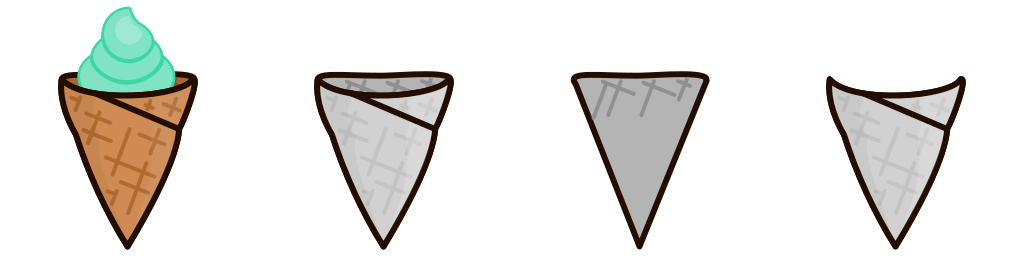
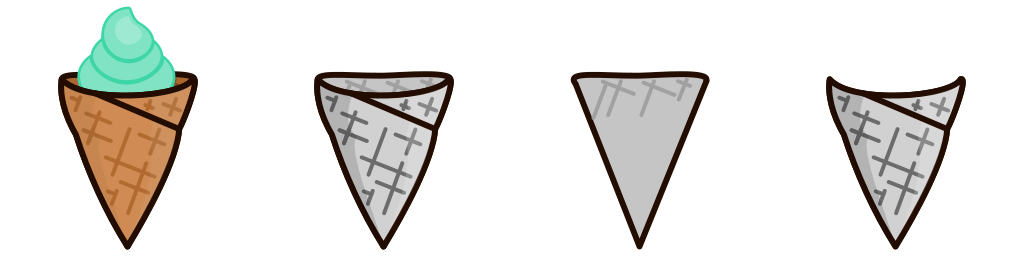
cone color manipulation

diff --git a/dev_tools/cone_recolor_debug.html b/dev_tools/cone_recolor_debug.html
@@ -1,0 +1,267 @@
+<!DOCTYPE html>
+<html lang="en">
+<head>
+<meta charset="UTF-8" />
+<meta name="viewport" content="width=device-width, initial-scale=1" />
+<title>Cone recolor debug</title>
+<style>
+  :root { --gap: 16px; }
+  * { box-sizing: border-box; }
+  body {
+    margin: 0;
+    font-family: system-ui, -apple-system, "Segoe UI", sans-serif;
+    color: #20303a;
+    /* A midday-ish sky so the cones are judged against the same backdrop as the game. */
+    background: linear-gradient(180deg, #8fd0f0 0%, #cdeaf6 60%, #f3e3b8 100%);
+    min-height: 100vh;
+  }
+  header {
+    position: sticky; top: 0; z-index: 5;
+    background: rgba(255,255,255,0.92);
+    border-bottom: 1px solid #b9cdd6;
+    padding: 12px 18px;
+    display: flex; flex-wrap: wrap; gap: 18px; align-items: center;
+    backdrop-filter: blur(4px);
+  }
+  header h1 { font-size: 16px; margin: 0 12px 0 0; }
+  .ctrl { display: flex; align-items: center; gap: 6px; font-size: 13px; }
+  .ctrl label { font-weight: 600; }
+  .ctrl input[type="color"] { width: 36px; height: 28px; padding: 0; border: 1px solid #888; border-radius: 4px; background: none; }
+  .ctrl code { background: #eef4f7; padding: 2px 6px; border-radius: 4px; }
+  select, input[type="range"] { font: inherit; }
+  main { padding: 18px; }
+  section { margin: 0 0 28px; }
+  section > h2 { font-size: 14px; letter-spacing: .03em; text-transform: uppercase; color: #3a5563; margin: 0 0 10px; }
+  .row { display: flex; flex-wrap: wrap; gap: var(--gap); align-items: flex-end; }
+  .card { text-align: center; }
+  .card .name { font-size: 12px; font-weight: 700; margin-top: 6px; }
+  .card .meta { font-size: 11px; color: #4a6675; }
+  .card .meta .sw { display: inline-block; width: 11px; height: 11px; border: 1px solid #555; border-radius: 2px; vertical-align: -1px; margin-right: 3px; }
+  /* Checkerboard so the cone's transparency reads. */
+  .tile {
+    background-image:
+      linear-gradient(45deg, #cdd6db 25%, transparent 25%),
+      linear-gradient(-45deg, #cdd6db 25%, transparent 25%),
+      linear-gradient(45deg, transparent 75%, #cdd6db 75%),
+      linear-gradient(-45deg, transparent 75%, #cdd6db 75%);
+    background-size: 16px 16px;
+    background-position: 0 0, 0 8px, 8px -8px, -8px 0;
+    background-color: #e7edf0;
+    border: 1px solid #aab8c0;
+    border-radius: 8px;
+    display: inline-block;
+    line-height: 0;
+  }
+  .tile.hero { box-shadow: 0 6px 18px rgba(0,0,0,.18); }
+  .hero-wrap { display: flex; gap: 28px; align-items: flex-end; flex-wrap: wrap; }
+  .hero-wrap .vs { align-self: center; font-size: 22px; font-weight: 700; color: #5a7686; }
+  .err { color: #b00020; font-weight: 600; }
+  .hint { font-size: 12px; color: #4a6675; margin: 4px 0 0; }
+</style>
+</head>
+<body>
+<header>
+  <h1>🍦 Cone recolor</h1>
+  <div class="ctrl">
+    <label for="base">Base</label>
+    <input type="color" id="base" value="#efa23e" />
+    <code id="baseHex">#efa23e</code>
+  </div>
+  <div class="ctrl">
+    <label for="blend">Blend</label>
+    <select id="blend">
+      <option value="multiply">multiply</option>
+      <option value="overlay">overlay</option>
+      <option value="soft-light">soft-light</option>
+      <option value="hard-light">hard-light</option>
+      <option value="screen">screen</option>
+      <option value="color">color</option>
+      <option value="hue">hue</option>
+      <option value="luminosity">luminosity</option>
+    </select>
+  </div>
+  <div class="ctrl">
+    <label for="minB">Min brightness</label>
+    <input type="range" id="minB" min="0.3" max="1" step="0.05" value="0.65" />
+    <code id="minBval">0.65</code>
+  </div>
+  <div class="ctrl">
+    <label for="steps">Tint steps</label>
+    <input type="range" id="steps" min="2" max="32" step="1" value="16" />
+    <code id="stepsval">16</code>
+  </div>
+  <div class="ctrl">
+    <label for="disp">Size</label>
+    <input type="range" id="disp" min="90" max="240" step="10" value="170" />
+  </div>
+</header>
+
+<main>
+  <p id="status" class="hint"></p>
+
+  <section>
+    <h2>Reference vs recolored (midday)</h2>
+    <div class="hero-wrap" id="hero"></div>
+    <p class="hint">Left = sprite 0, drawn straight from the sheet (your target). Right = sprite 1 recolored with the current settings at the midday floor. Match the right to the left.</p>
+  </section>
+
+  <section>
+    <h2>Grayscale source frames (untouched)</h2>
+    <div class="row" id="raw"></div>
+  </section>
+
+  <section>
+    <h2>Sprite 1 — recolored at each day-cycle floor</h2>
+    <div class="row" id="keyframes"></div>
+  </section>
+
+  <section>
+    <h2>Sprite 1 — brightness ramp (1.0 → min, the day-dim steps)</h2>
+    <div class="row" id="ramp"></div>
+  </section>
+
+  <section>
+    <h2>In-game layers @ midday (back behind scoops, front over them)</h2>
+    <div class="row" id="layers"></div>
+    <p class="hint">This is what actually renders: BACK (frame 2) + FRONT (frame 3) recolored. The right tile composites them.</p>
+  </section>
+</main>
+
+<script>
+  const SRC = '../assets/cone_sheet.png';
+  const F = 256;
+  const FRAME = { REFERENCE: 0, FULL: 1, BACK: 2, FRONT: 3 };
+  // Day-cycle floor colors (from js/game/dayCycle.js KEYFRAMES) that drive the tint.
+  const DAY = [
+    ['Dawn',      '#e8b97a'],
+    ['Morning',   '#f3d9a1'],
+    ['Midday',    '#f7e0a0'],
+    ['Afternoon', '#d99a5e'],
+    ['Sunset',    '#6f4d3a'],
+  ];
+  const DAWN_FLOOR = '#e8b97a';
+
+  const img = new Image();
+  const statusEl = document.getElementById('status');
+  img.onload = () => { statusEl.textContent = `Loaded ${SRC} (${img.width}×${img.height}).`; render(); };
+  img.onerror = () => { statusEl.innerHTML = `<span class="err">Could not load ${SRC}. Open this page from the scoop/ tree (or via the dev server) so the relative path resolves.</span>`; };
+  img.src = SRC;
+
+  // --- color helpers (mirror playerView.js) ---------------------------------
+  function lum(hex) {
+    const v = parseInt(hex.slice(1), 16);
+    return 0.299 * ((v >> 16) & 255) + 0.587 * ((v >> 8) & 255) + 0.114 * (v & 255);
+  }
+  function scaleHex(hex, f) {
+    const v = parseInt(hex.slice(1), 16);
+    const p = n => Math.round(Math.max(0, Math.min(255, n))).toString(16).padStart(2, '0');
+    return '#' + p(((v >> 16) & 255) * f) + p(((v >> 8) & 255) * f) + p((v & 255) * f);
+  }
+  // The cone tint for a given floor — same math as coneTintFor().
+  function coneTint(base, floorHex, minB, steps) {
+    const b = Math.max(minB, Math.min(1, lum(floorHex) / lum(DAWN_FLOOR)));
+    const stepped = Math.round(b * steps) / steps;
+    return scaleHex(base, stepped);
+  }
+
+  // Bake one frame, optionally recolored with (tint, blend). Mirrors tintedConeFrame().
+  function bake(frame, tintHex, blend) {
+    const c = document.createElement('canvas');
+    c.width = c.height = F;
+    const g = c.getContext('2d');
+    g.drawImage(img, frame * F, 0, F, F, 0, 0, F, F);
+    if (tintHex) {
+      g.globalCompositeOperation = blend;
+      g.fillStyle = tintHex;
+      g.fillRect(0, 0, F, F);
+      g.globalCompositeOperation = 'destination-in';
+      g.drawImage(img, frame * F, 0, F, F, 0, 0, F, F);
+    }
+    return c;
+  }
+
+  // A display tile: a checkerboard-backed canvas at the chosen size + labels.
+  function tile(srcCanvas, size, name, meta, hero) {
+    const wrap = document.createElement('div');
+    wrap.className = 'card';
+    const box = document.createElement('div');
+    box.className = 'tile' + (hero ? ' hero' : '');
+    const cv = document.createElement('canvas');
+    cv.width = cv.height = size;
+    const g = cv.getContext('2d');
+    g.imageSmoothingEnabled = true;
+    g.drawImage(srcCanvas, 0, 0, size, size);
+    box.appendChild(cv);
+    wrap.appendChild(box);
+    if (name) { const n = document.createElement('div'); n.className = 'name'; n.textContent = name; wrap.appendChild(n); }
+    if (meta) { const m = document.createElement('div'); m.className = 'meta'; m.innerHTML = meta; wrap.appendChild(m); }
+    return wrap;
+  }
+  function swatch(hex) { return `<span class="sw" style="background:${hex}"></span>${hex}`; }
+
+  function render() {
+    if (!img.complete || !img.naturalWidth) return;
+    const base = document.getElementById('base').value;
+    const blend = document.getElementById('blend').value;
+    const minB = parseFloat(document.getElementById('minB').value);
+    const steps = parseInt(document.getElementById('steps').value, 10);
+    const disp = parseInt(document.getElementById('disp').value, 10);
+    document.getElementById('baseHex').textContent = base;
+    document.getElementById('minBval').textContent = minB.toFixed(2);
+    document.getElementById('stepsval').textContent = String(steps);
+
+    const set = (id, nodes) => { const el = document.getElementById(id); el.innerHTML = ''; nodes.forEach(n => el.appendChild(n)); };
+
+    // Hero: untouched sprite 0 vs recolored sprite 1 @ midday.
+    const midTint = coneTint(base, '#f7e0a0', minB, steps);
+    const heroNodes = [
+      tile(bake(FRAME.REFERENCE, null), disp + 30, 'Sprite 0 — reference', 'no recolor', true),
+    ];
+    const vs = document.createElement('div'); vs.className = 'vs'; vs.textContent = '→';
+    heroNodes.push(vs);
+    heroNodes.push(tile(bake(FRAME.FULL, midTint, blend), disp + 30, 'Sprite 1 — recolored', swatch(midTint) + ` · ${blend}`, true));
+    set('hero', heroNodes);
+
+    // Raw grayscale frames.
+    const names = ['0 reference', '1 full', '2 back', '3 front'];
+    set('raw', [0, 1, 2, 3].map(i => tile(bake(i, null), disp, names[i], 'untouched')));
+
+    // Recolored at each day-cycle floor.
+    set('keyframes', DAY.map(([name, floor]) => {
+      const t = coneTint(base, floor, minB, steps);
+      return tile(bake(FRAME.FULL, t, blend), disp, name, `floor ${floor}<br>${swatch(t)}`);
+    }));
+
+    // Brightness ramp: 1.0 down to minB across `steps`.
+    const rampNodes = [];
+    for (let s = steps; s >= Math.round(minB * steps); s--) {
+      const f = s / steps;
+      const t = scaleHex(base, f);
+      rampNodes.push(tile(bake(FRAME.FULL, t, blend), Math.max(90, disp - 30), f.toFixed(2), swatch(t)));
+    }
+    set('ramp', rampNodes);
+
+    // In-game layers @ midday.
+    const backC = bake(FRAME.BACK, midTint, blend);
+    const frontC = bake(FRAME.FRONT, midTint, blend);
+    const composite = document.createElement('canvas');
+    composite.width = composite.height = F;
+    const cg = composite.getContext('2d');
+    cg.drawImage(backC, 0, 0);
+    cg.drawImage(frontC, 0, 0);
+    set('layers', [
+      tile(backC, disp, 'BACK (frame 2)', swatch(midTint)),
+      tile(frontC, disp, 'FRONT (frame 3)', swatch(midTint)),
+      tile(composite, disp, 'BACK + FRONT', 'composited'),
+    ]);
+  }
+
+  // Live controls.
+  ['base', 'blend', 'minB', 'steps', 'disp'].forEach(id => {
+    const el = document.getElementById(id);
+    el.addEventListener('input', render);
+    el.addEventListener('change', render);
+  });
+</script>
+</body>
+</html>

diff --git a/js/view/playerView.js b/js/view/playerView.js
@@ -26,7 +26,7 @@ const RAINBOW_STOPS = ['#ff5b5b', '#ffb15c', '#fff36a', '#7fe3c4', '#6a8cff', '#
 
 // === Cone sprite (layered, grayscale, day-recolored) ========================
 // A back layer + a front layer the scoop stack draws between. The grayscale art
-// is multiply-tinted to the scoop brown, dimmed by the day cycle. CONE_SPRITE_W
+// is recolored to a warm golden-orange (dimmed by the day cycle). CONE_SPRITE_W
 // is the on-screen art width and CONE_SPRITE_DY nudges it vertically so the bowl
 // meets the bottom scoop — tune these two if the cone reads too big/small or the
 // scoops don't nest right.
@@ -34,7 +34,10 @@ const coneSheet = new SpriteSheet(CONE_SPRITE);
 const CONE_FRAME_PX = CONE_SPRITE.frame.width;        // 256
 const CONE_SPRITE_W = 168;                            // on-screen cone width (px)
 const CONE_SPRITE_DY = -14;                           // sprite-center offset from player.y
-const CONE_BASE = '#d18a4a';                          // daylight cone brown (matches the old triangle)
+// The cone's daylight color — a vibrant, yellowy-orange waffle (not a dull
+// brown). It's the multiply tint: the light wafer reads as ~this color while the
+// dark grid/outlines stay dark. Bump brighter / more yellow for more pop.
+const CONE_BASE = '#e9931c';
 
 function _lum(hex) {
   const v = parseInt(hex.slice(1), 16);
@@ -46,23 +49,25 @@ function _scaleHex(hex, f) {
   return '#' + p(((v >> 16) & 255) * f) + p(((v >> 8) & 255) * f) + p((v & 255) * f);
 }
 const _DAWN_FLOOR_LUM = _lum('#e8b97a');   // brightest day-cycle floor = full cone brightness
-const _CONE_TINT_STEPS = 16;
+const _CONE_TINT_STEPS = 13;
 
 /**
- * The cone's tint for the current time of day: the daylight brown scaled by the
- * day-cycle floor's brightness (so the cone dims into dusk alongside the sand),
- * quantized to a few brightness STEPS so the recolored sprite caches cheaply.
+ * The cone's tint for the current time of day: CONE_BASE scaled by the day-cycle
+ * floor's brightness (so the cone dims into dusk alongside the sand) but never
+ * below 0.40, quantized to a few brightness STEPS so the recolored sprite caches
+ * cheaply.
  * @param {string} floorHex the active cycle state's `floor` color
  */
 export function coneTintFor(floorHex) {
-  const b = Math.max(0.5, Math.min(1, _lum(floorHex) / _DAWN_FLOOR_LUM));
+  const b = Math.max(0.40, Math.min(1, _lum(floorHex) / _DAWN_FLOOR_LUM));
   const stepped = Math.round(b * _CONE_TINT_STEPS) / _CONE_TINT_STEPS;
   return _scaleHex(CONE_BASE, stepped);
 }
 
 // Recolored cone frames, baked once per (frame, tint): the grayscale art
-// multiplied by the tint, then clipped back to the sprite's own alpha. Bounded
-// by the tint-step count above (≤ a couple dozen small canvases).
+// multiplied by the tint (the light wafer takes the tint color; the dark
+// grid/outlines stay dark), then clipped back to the sprite's alpha. Bounded by
+// the tint-step count above (≤ a couple dozen small canvases).
 /** @type {Map<string, HTMLCanvasElement>} */
 const _coneCache = new Map();
 function tintedConeFrame(frame, tint) {